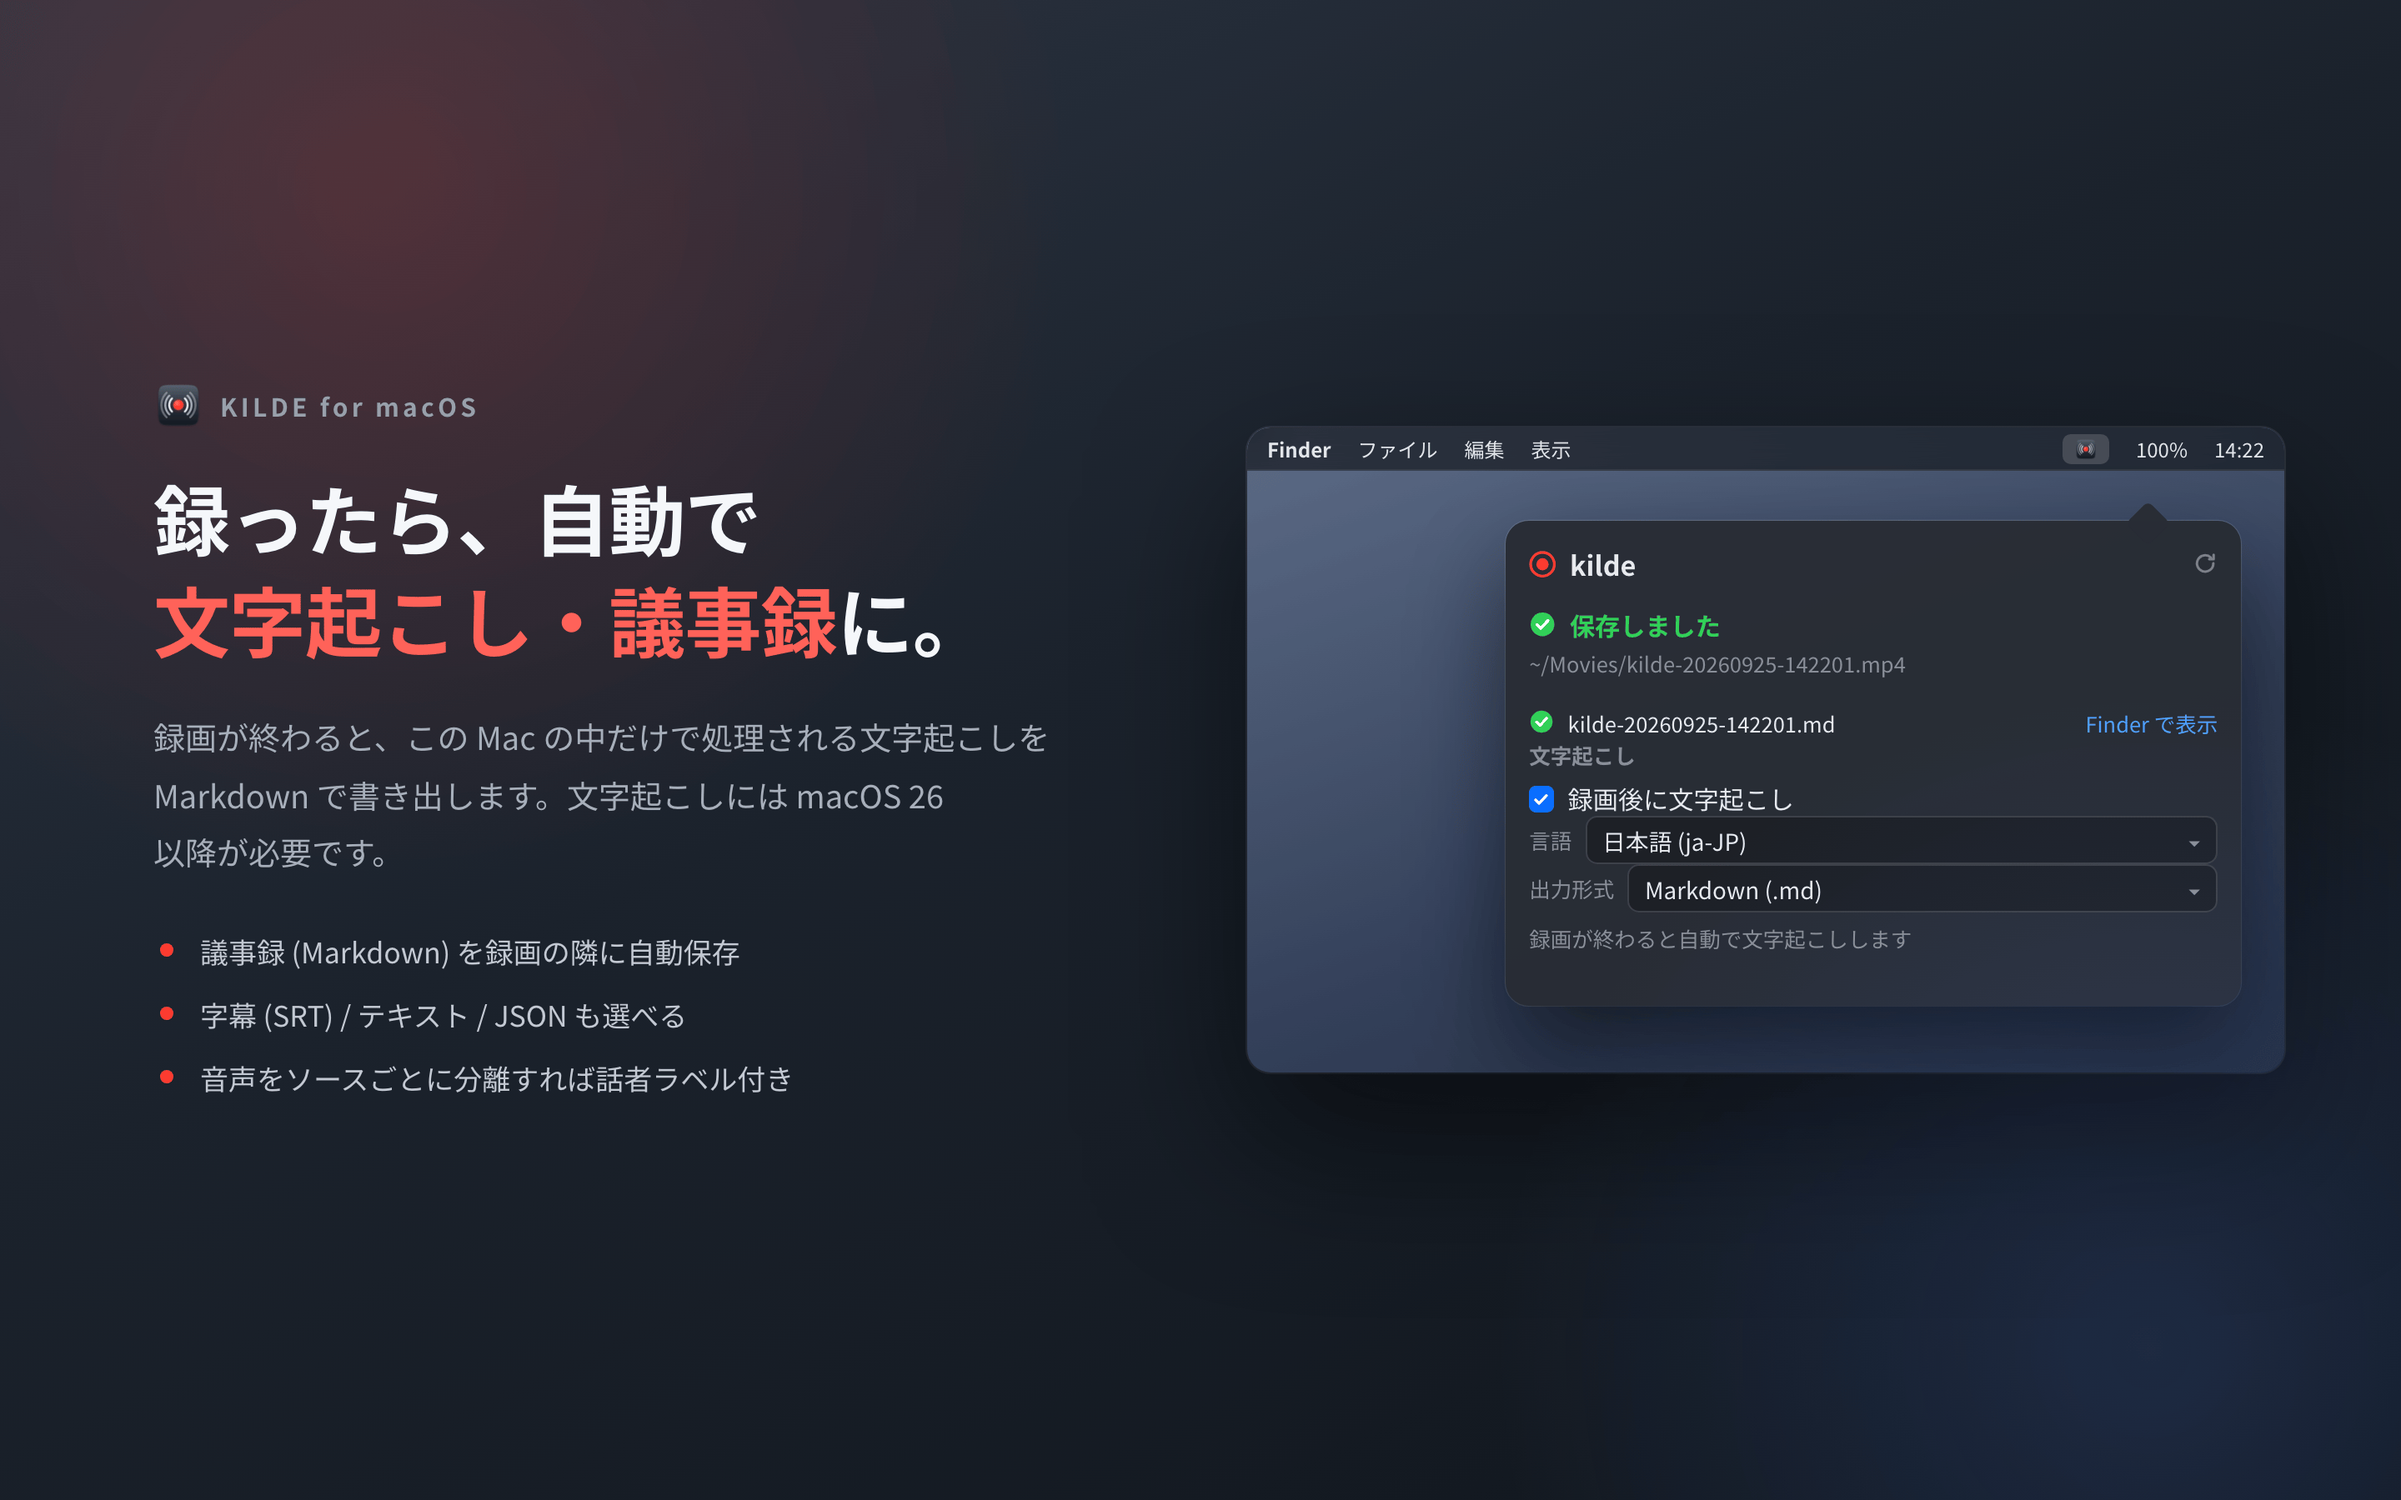
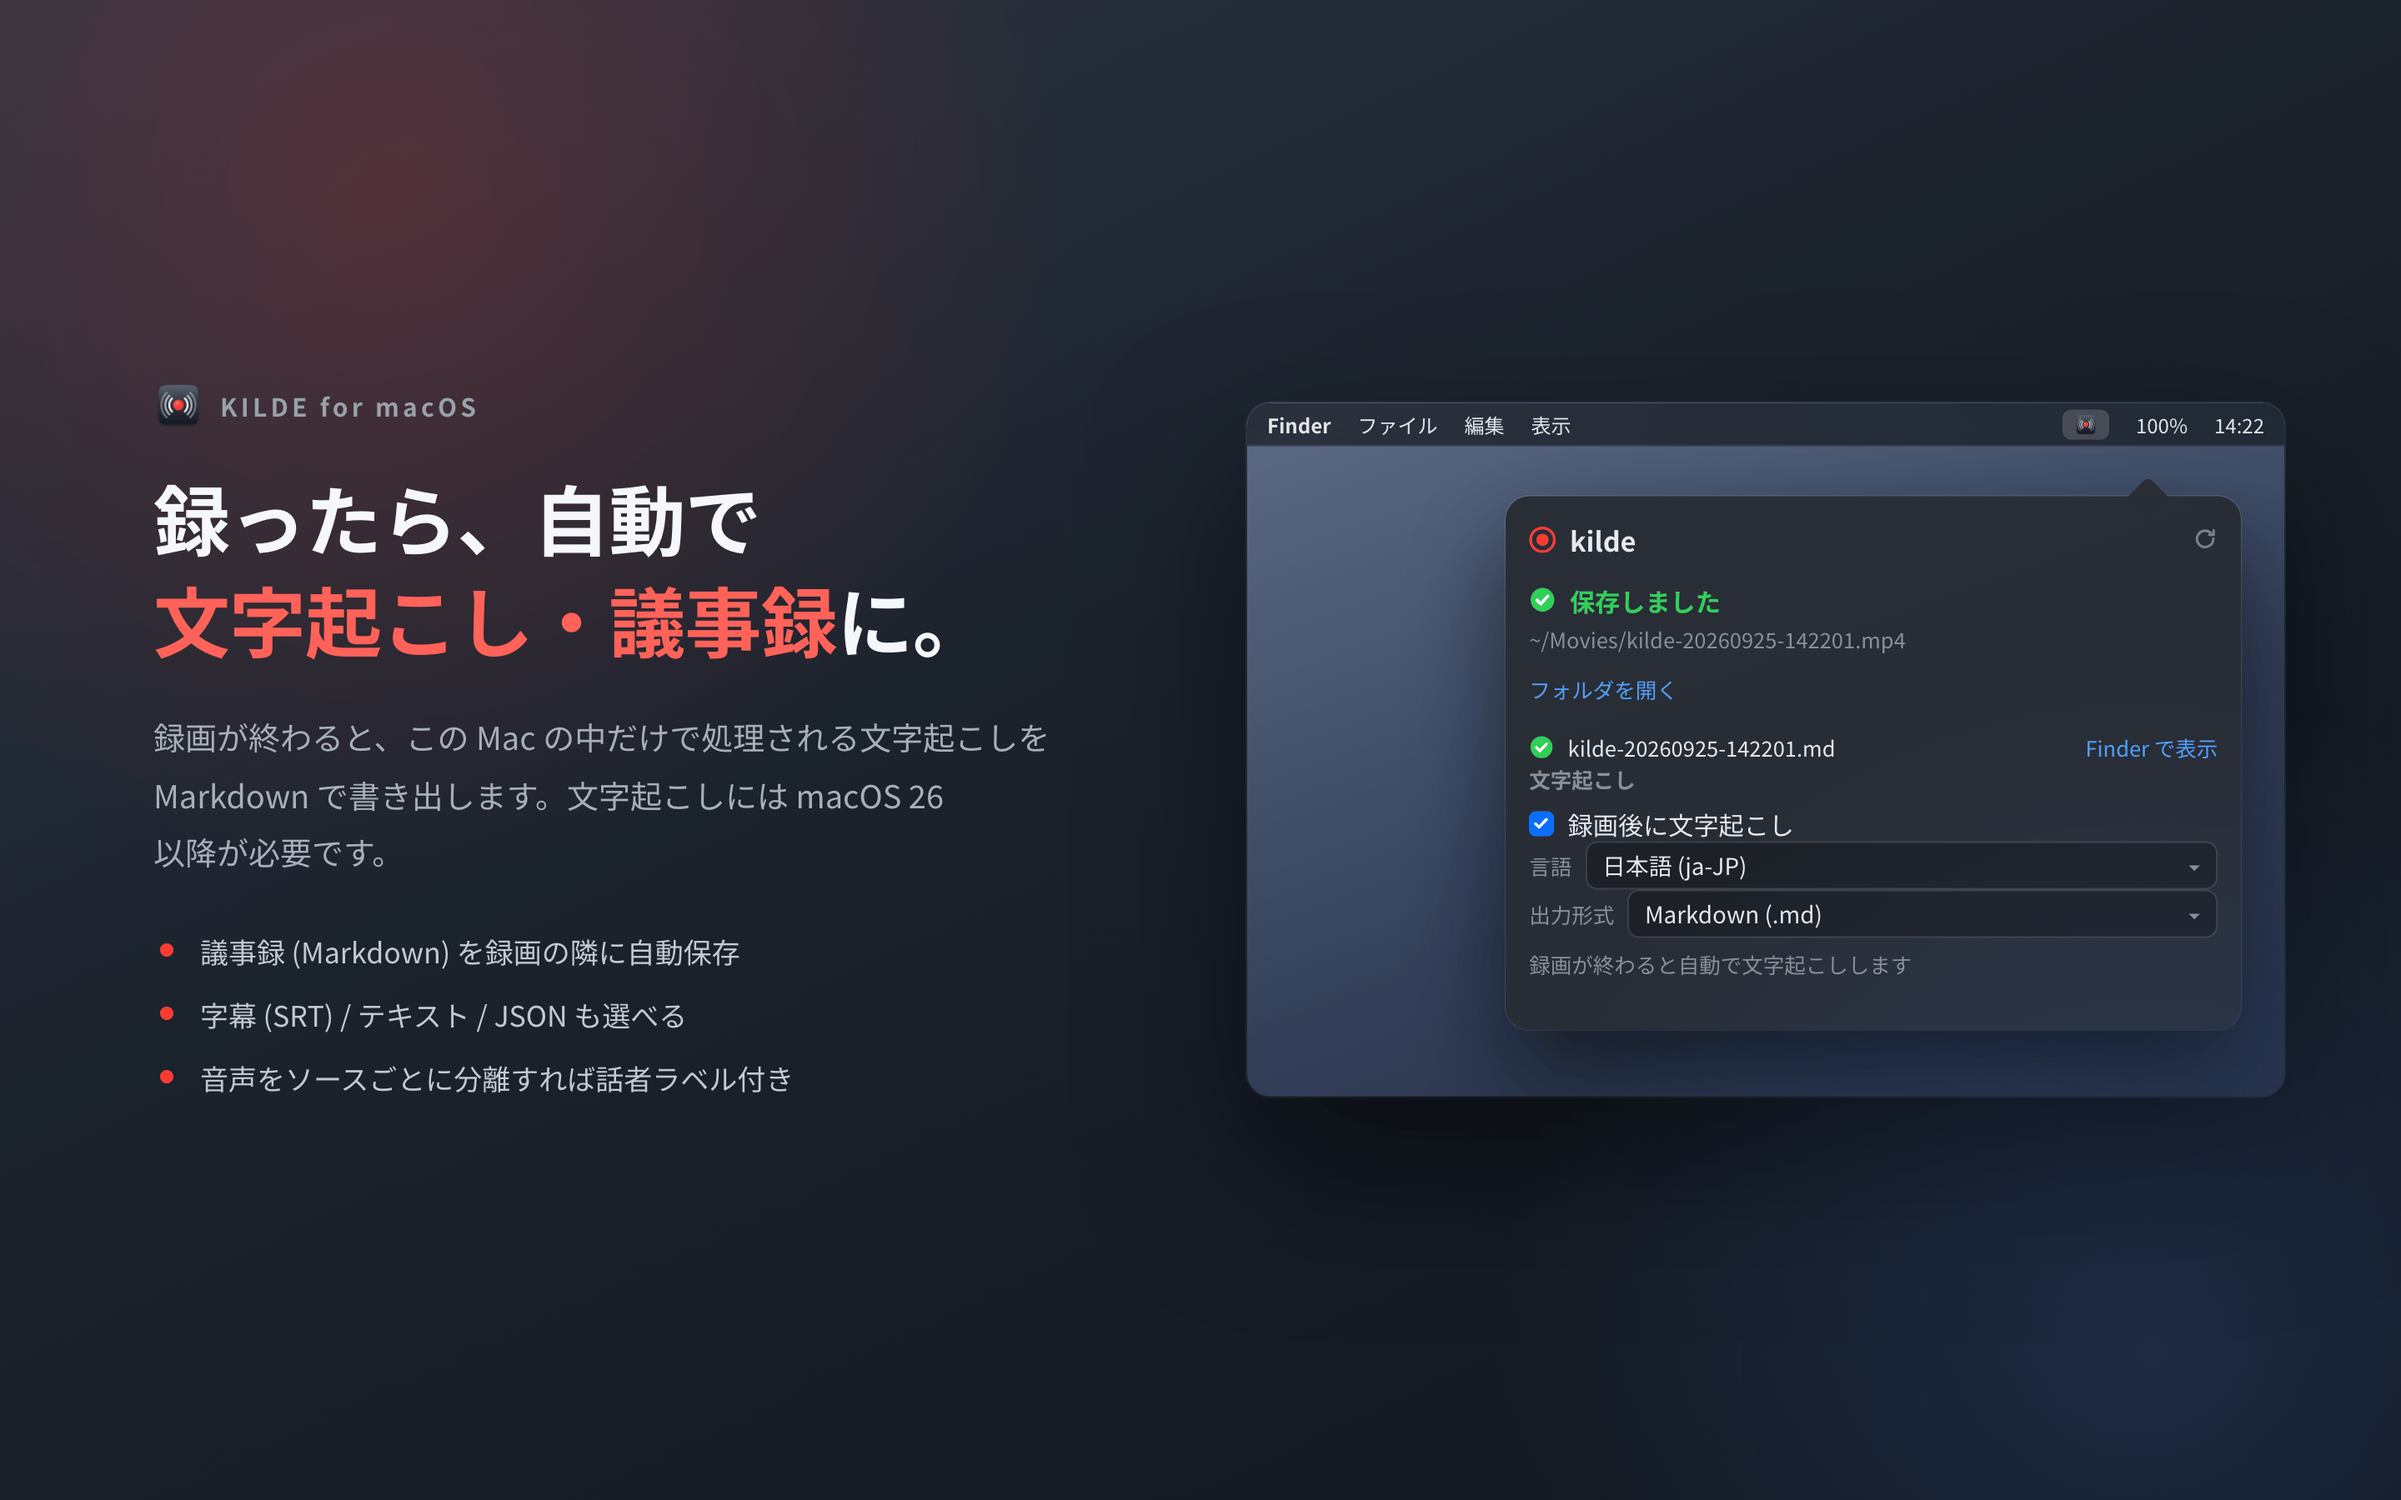
Prepare the MAS 0.8.4 submission (issue #300)
Add the 0.8.4 What's New to the five locales (Open Folder buttons from
#296 and the capture-interruption notice from #298), record the 0.8.3
approval in the metrics ledger, and regenerate 02-transcribe /
06-safe-finish so the screenshots show the folder-open UI.

Changed region(s): [[0.5, 0.2489, 0.9688, 0.6533], [0.5, 0.7156, 0.9688, 0.7467], [0.875, 0.4667, 0.9375, 0.4978]]

diff --git a/docs/appstore/metadata/metrics.md b/docs/appstore/metadata/metrics.md
@@ -8,7 +8,7 @@ issue #160 の受け入れ条件「変更前後 4 週間のインプレッショ
 
 ## 比較する変更
 
-計測対象は 2 段階に分かれる (変更 2 は依頼者指示 2026-09-28 で追加 — issue #265 / #266):
+計測対象は次の段階に分かれる (変更 2 は依頼者指示 2026-09-28 で追加 — issue #265 / #266):
 
 - **変更 1 (0.8.1)** (2026-09-26 にこのリポジトリで確定、PR は issue #160 参照):
   全 5 ロケールのサブタイトル・説明・キーワードを文字起こし前面の文面へ更新し、
@@ -20,6 +20,14 @@ issue #160 の受け入れ条件「変更前後 4 週間のインプレッショ
   (自動公開運用のため承認日 = 公開日)。
   **変更 1 の反映日〜変更 2 の反映日前日が
   「変更 2 の基準期間」**になり、先頭 2 枚の前後比較はこの基準期間と比べて行う
+- **0.8.3**: What's New のみ更新でメタデータ・スクショの変更が無いため
+  計測期間は設けない (2026-09-29 に承認 — 下の「反映日」)
+- **変更 3 (0.8.4)**: What's New にユーザー可視の変更 («フォルダを開く» ボタン —
+  issue #296、収録中断の検知と通知 — issue #298) を記載し、スクリーンショット
+  2 枚 (02-transcribe / 06-safe-finish) を新 UI 版へ差し替える (issue #300)。
+  **反映日・基準期間・週次表は 0.8.4 の承認後に記入する**
+  (変更 2 の比較終了日 2026-10-26 より前に反映された場合は、変更 2 後の週次表は
+  変更 3 の反映日前日までで打ち切る — 変更 1 → 2 の前例どおり)
 - **反映のタイミング**: メタデータもスクショも、バージョンを審査に通って公開された
   時点で製品ページに現れる (= 下の「反映日」)
 
@@ -63,6 +71,7 @@ ASC 分析の指標を使う (Apple の
 | 変更 2 の基準期間 | 変更 1 の反映日 (2026-09-27) 〜 **2026-09-27** (0.8.2 を 2026-09-28 に申請したため実質 1 日。issue #269 の備考どおり「読み方の注意」の合成効果として扱う) |
 | 0.8.2 審査承認・公開日 (変更 2 の反映日) | **2026-09-28** (MAS watch が検知 — issue #285。READY_FOR_SALE。**自動公開運用のため承認日 = 公開日**) |
 | 変更 2 の比較終了日 (反映日 + 4 週間) | **2026-10-26** |
+| 0.8.3 審査承認・公開日 | **2026-09-29** (MAS watch が検知 — issue #295。READY_FOR_SALE。メタデータ・スクショの変更が無いため計測期間は設けない) |
 
 ## 変更前の ASC 登録内容 (2026-09-26 に ASC API で取得)
 

diff --git a/docs/appstore/metadata/metadata-ja.md b/docs/appstore/metadata/metadata-ja.md
@@ -122,6 +122,19 @@ What's New は正直に短く保つ。
 アプリの内部処理を改善しました。機能の変更はありません。
 ```
 
+## 新着情報 (0.8.4)
+
+0.8.3 からの変更はユーザー可視の 2 件: 録画完了画面と «最近の録画» に
+«フォルダを開く» ボタンを追加 (issue #296 / PR #297)、ScreenCaptureKit がストリームを
+自停止した場合 (macOS 26 のディスプレイ再構成など) に録画を検知してそこまでの内容で
+確定し、その旨を通知 (issue #298 / PR #299、エンジン v0.8.2)。
+実装の動きをそのまま短く書く。UI の用語 («フォルダを開く» «最近の録画») は
+Localizable.xcstrings の ja (キー) と一致させている。
+
+```text
+録画の完了画面と「最近の録画」に「フォルダを開く」ボタンを追加しました。さらに、収録の中断を検知して、そこまでの内容で録画を保存してお知らせする安定性の改善を含みます。
+```
+
 ## 新着情報 (テンプレート)
 
 ```text

diff --git a/docs/appstore/metadata/metadata-en.md b/docs/appstore/metadata/metadata-en.md
@@ -105,6 +105,19 @@ and short.
 Internal improvements to the app. No changes to the app's features.
 ```
 
+## What's New (0.8.4)
+
+First user-visible changes since 0.8.2: Open Folder buttons on the completion
+screen and the recent-recordings rows (issue #296 / PR #297), and detection of
+capture interruptions — when ScreenCaptureKit stops the stream on its own
+(e.g. after a display change on macOS 26), the recording is finalized up to
+that point and the app notifies (issue #298 / PR #299, engine v0.8.2). UI
+terms match Localizable.xcstrings (en).
+
+```text
+Adds Open Folder buttons to the recording completion screen and the recent recordings list. Also includes a stability improvement: if the capture is interrupted, kilde now detects it, saves the recording up to that point, and notifies you.
+```
+
 ## What's New (template)
 
 ```text

diff --git a/docs/appstore/metadata/metadata-es.md b/docs/appstore/metadata/metadata-es.md
@@ -113,6 +113,15 @@ Actualizamos la página del producto en el App Store. No hay cambios en las func
 Mejoras internas de la aplicación. No hay cambios en las funciones de la aplicación.
 ```
 
+## Novedades (0.8.4)
+
+Los términos de la interfaz coinciden con Localizable.xcstrings (es):
+«Abrir carpeta», «Grabaciones recientes».
+
+```text
+Añade botones «Abrir carpeta» en la pantalla de finalización de la grabación y en la lista de grabaciones recientes. Incluye también una mejora de estabilidad: al detectar una interrupción de la captura, kilde guarda la grabación hasta ese momento y te avisa.
+```
+
 ## Novedades (plantilla)
 
 ```text

diff --git a/docs/appstore/metadata/metadata-ko.md b/docs/appstore/metadata/metadata-ko.md
@@ -104,6 +104,14 @@ App Store 제품 페이지를 업데이트했습니다. 앱 기능 변경은 없
 앱의 내부 처리를 개선했습니다. 앱 기능 변경은 없습니다.
 ```
 
+## 새로운 기능 (0.8.4)
+
+UI 용어는 Localizable.xcstrings (ko)와 일치시켰다 ('폴더 열기', '최근 녹화').
+
+```text
+녹화 완료 화면과 '최근 녹화' 목록에 '폴더 열기' 버튼을 추가했습니다. 또한 캡처 중단을 감지하여 지금까지의 내용으로 녹화를 저장하고 알려주는 안정성 개선이 포함됩니다.
+```
+
 ## 새로운 기능 (템플릿)
 
 ```text

diff --git a/docs/appstore/metadata/metadata-zh-Hans.md b/docs/appstore/metadata/metadata-zh-Hans.md
@@ -100,6 +100,14 @@ macOS 14 或更高版本（Apple Silicon）；转写与摘要需要 macOS 26
 改进了应用的内部处理。应用功能没有变化。
 ```
 
+## 新功能 (0.8.4)
+
+UI 用语与 Localizable.xcstrings (zh-Hans) 一致（“打开文件夹”“最近的录制”）。
+
+```text
+在录制完成画面和“最近的录制”列表中新增“打开文件夹”按钮。同时改进了稳定性：检测到采集中断时，会保存已录制的部分并发出通知。
+```
+
 ## 新功能 (模板)
 
 ```text
